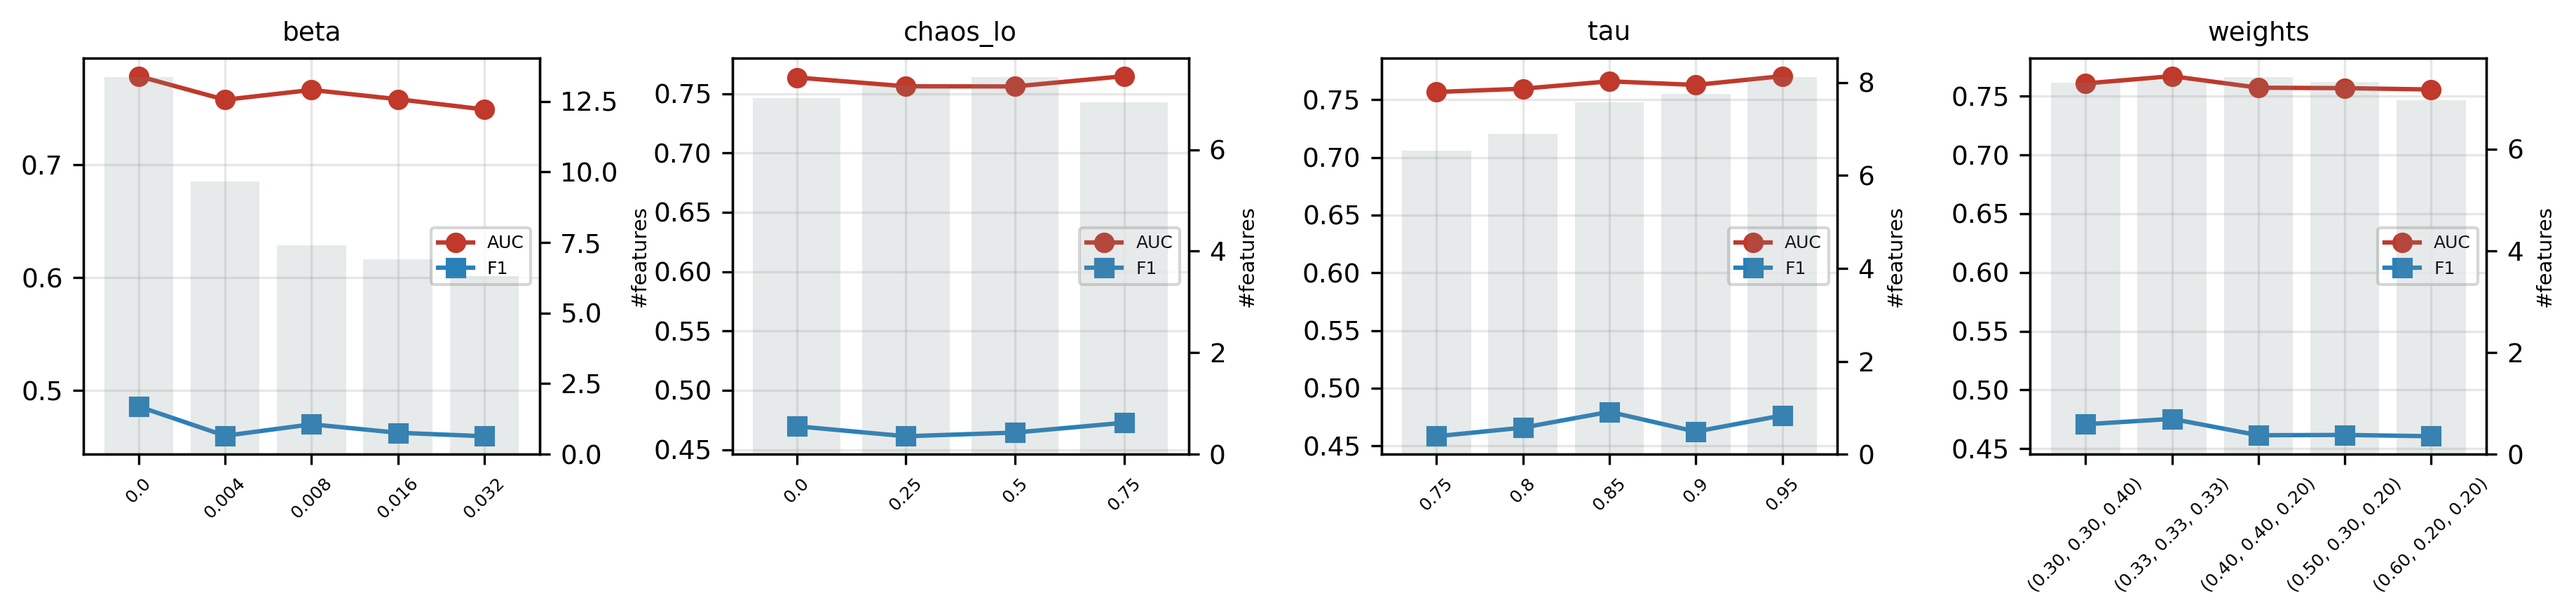
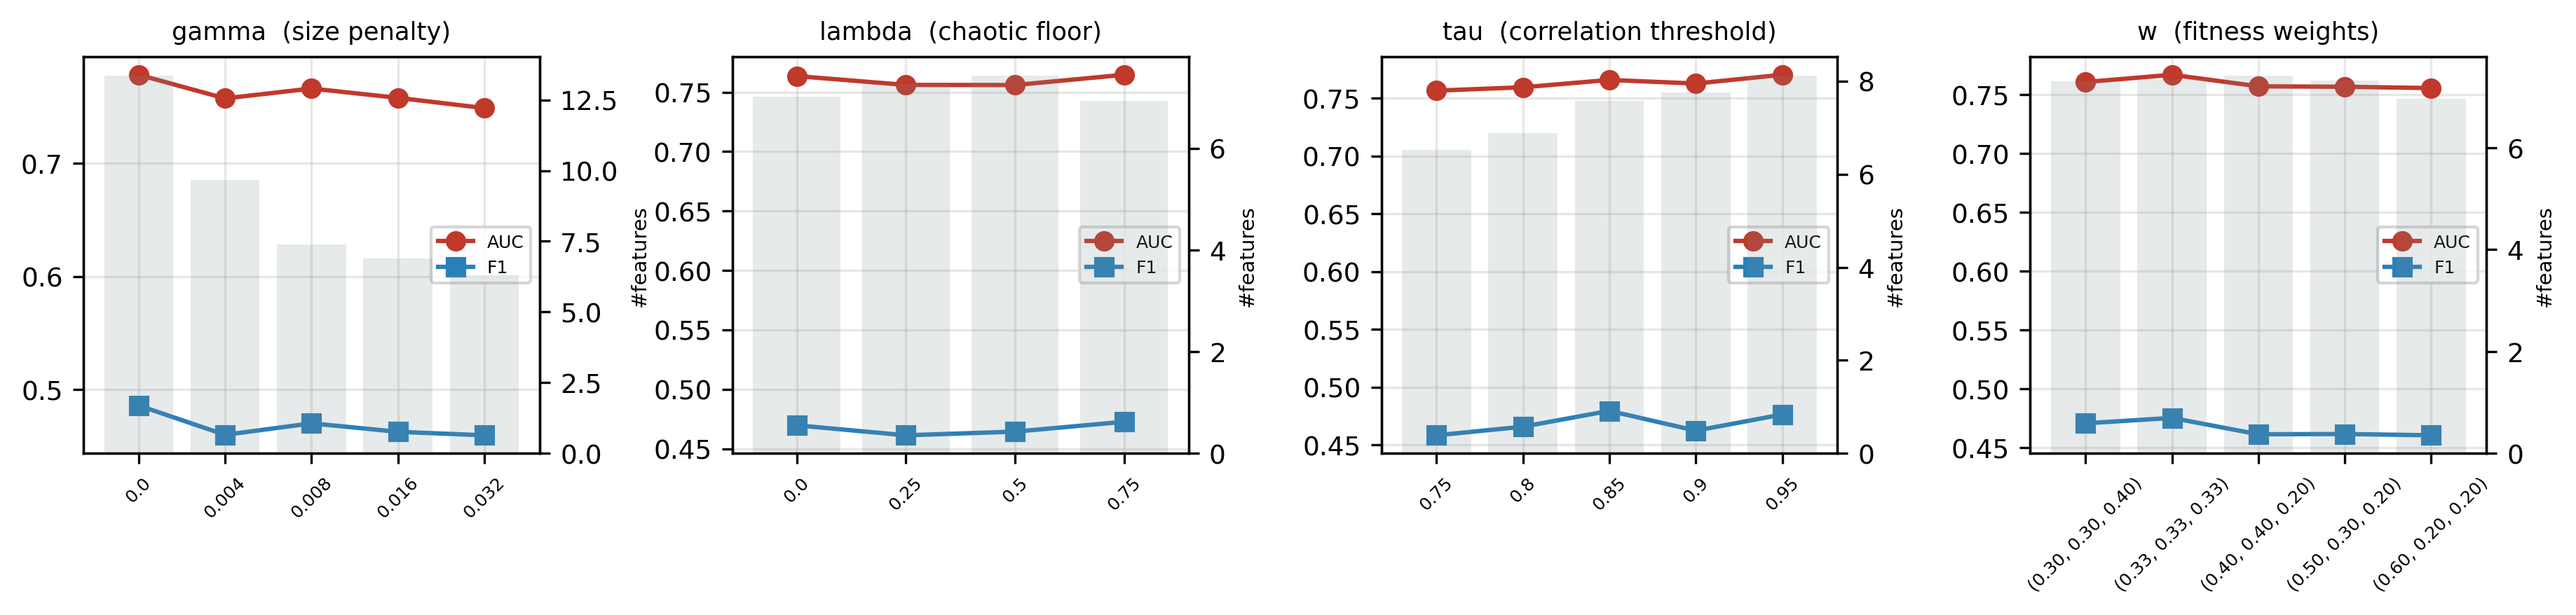
Redraw Figure 1 on an explicit grid and fix stale symbol names
Figure 1 is rebuilt around a Box class that exposes its own edge anchors, so
arrows attach to box edges instead of hand-typed coordinates. Every connection
is now either straight or a right-angled elbow; the diagonal run into Stage 1
and the unanchored dashed arc across the top are gone, the Stage 1 text no
longer overflows its box, and the held-out-fold rail routes clear of the
Stage 4 panel.

Both figures also carried the pre-rename notation: the candidate pool is P, not
C, and the size penalty is gamma, not beta (beta denotes the beta wolf). Fixed
in Figure 1 and in the sensitivity panel titles of Figure 10.

diff --git a/make_fig1.py b/make_fig1.py
@@ -1,85 +1,184 @@
-"""Figure 1: revised DF-GWO pipeline diagram."""
+"""Figure 1: the DF-GWO experimental pipeline.
+
+Laid out on an explicit grid. Every box is a `Box` that knows its own edges, and every
+arrow is anchored to those edges rather than to hand-typed coordinates, so boxes cannot
+overlap and arrows cannot start or end in mid-air. All connections are either straight
+(when two boxes share a centre line) or right-angled elbows; nothing runs diagonally
+across the figure.
+"""
 import os
+
 import matplotlib
 matplotlib.use("Agg")
 import matplotlib.pyplot as plt
-from matplotlib.patches import FancyBboxPatch, FancyArrowPatch
+from matplotlib.patches import FancyBboxPatch, FancyArrowPatch, Rectangle
 
 FIG = os.path.join(os.path.dirname(os.path.abspath(__file__)), "figures")
 os.makedirs(FIG, exist_ok=True)
 
-fig, ax = plt.subplots(figsize=(11.2, 5.0))
-ax.set_xlim(0, 114); ax.set_ylim(0, 50); ax.axis("off")
+C_DATA = "#d6eaf8"      # data and protocol
+C_PREP = "#d5f5e3"      # training-partition processing
+C_STAGE = "#fdebd0"     # DF-GWO stages
+C_TEST = "#fadbd8"      # anything that touches the held-out fold
+C_SIDE = "#ffffff"
+C_METRIC = "#eaeded"
+EC = "#37474f"
+
+fig, ax = plt.subplots(figsize=(12.6, 10.2))
+ax.set_xlim(-3, 124)
+ax.set_ylim(-33, 71)
+ax.axis("off")
 
 
-def box(x, y, w, h, text, fc, fs=8.2, bold=False, ec="#37474f"):
-    ax.add_patch(FancyBboxPatch((x, y), w, h, boxstyle="round,pad=0.6,rounding_size=1.2",
-                                fc=fc, ec=ec, lw=1.1))
-    ax.text(x + w / 2, y + h / 2, text, ha="center", va="center", fontsize=fs,
-            weight="bold" if bold else "normal", linespacing=1.45)
+class Box:
+    """A rounded box that knows where its own edges are."""
+
+    def __init__(self, cx, cy, w, h, text, fc=C_SIDE, fs=8.4, bold=False, ec=EC):
+        self.cx, self.cy, self.w, self.h = cx, cy, w, h
+        ax.add_patch(FancyBboxPatch((cx - w / 2, cy - h / 2), w, h,
+                                    boxstyle="round,pad=0.55,rounding_size=1.4",
+                                    fc=fc, ec=ec, lw=1.1, zorder=3))
+        ax.text(cx, cy, text, ha="center", va="center", fontsize=fs, zorder=4,
+                weight="bold" if bold else "normal", linespacing=1.5)
+
+    # edge anchors, with the rounded-corner padding taken into account
+    @property
+    def left(self):
+        return self.cx - self.w / 2 - 0.55
+
+    @property
+    def right(self):
+        return self.cx + self.w / 2 + 0.55
+
+    @property
+    def top(self):
+        return self.cy + self.h / 2 + 0.55
+
+    @property
+    def bottom(self):
+        return self.cy - self.h / 2 - 0.55
 
 
-def arrow(x1, y1, x2, y2, style="-|>", ls="-", col="#37474f", rad=0.0):
-    ax.add_patch(FancyArrowPatch((x1, y1), (x2, y2), arrowstyle=style, mutation_scale=11,
-                                 lw=1.2, color=col, linestyle=ls,
-                                 connectionstyle=f"arc3,rad={rad}"))
+def arrow(p, q, ls="-", col=EC, lw=1.15, head=True):
+    ax.add_patch(FancyArrowPatch(p, q, arrowstyle="-|>" if head else "-",
+                                 mutation_scale=12, lw=lw, color=col,
+                                 linestyle=ls, zorder=2, shrinkA=0, shrinkB=0))
 
 
-# --- data / fold layer
-box(1.5, 39, 20, 8.5, "Twenty projects\nPROMISE / AEEEM / ReLink\n(n = 56-1862, d = 20-61)", "#d6eaf8")
-box(24.5, 39, 19, 8.5, "Stratified 5-fold CV\n(outer folds fixed and\nshared by all methods)", "#d6eaf8")
-arrow(21.5, 43.2, 24.5, 43.2)
+def across(a, b, ls="-", col=EC):
+    """Straight horizontal arrow, a.right -> b.left (boxes share a centre line)."""
+    arrow((a.right, a.cy), (b.left, b.cy), ls=ls, col=col)
 
-box(46.5, 39, 22, 8.5, "Training partition only:\nmedian impute, drop constant,\nmin-max scale, SMOTE (k = 5)", "#d5f5e3")
-arrow(43.5, 43.2, 46.5, 43.2)
-box(92, 39, 19, 8.5, "Held-out test fold\n(untouched until the\nfinal Random Forest)", "#fdebd0")
-arrow(34, 47.5, 97, 47.5, ls=(0, (4, 3)), col="#b9770e", rad=-0.11)
 
-# --- stage 1
-box(3, 27, 26, 8.5, "STAGE 1  Dynamic feature grouping\nPearson |rho| > tau = 0.85, union-find merge;\n"
-                    "MI representative + high-MI singletons\n-> candidate pool C", "#fdebd0", bold=False)
-arrow(50, 39, 16, 35.5, rad=0.12)
+def down(a, b, ls="-", col=EC):
+    """Straight vertical arrow, a.bottom -> b.top (boxes share a centre line)."""
+    arrow((a.cx, a.bottom), (b.cx, b.top), ls=ls, col=col)
 
-# --- stage 2 / 3 loop
-box(33, 20.5, 32, 15, "", "#fadbd8", ec="#c0392b")
-ax.text(49, 34.0, "Main loop:  t = 1 ... T = 30", ha="center", fontsize=8.6, weight="bold",
-        color="#922b21")
-box(34.5, 27.5, 29, 5.6, "STAGE 2  Chaos-driven search\ncosine a(t) Eq.(6) | logistic C' Eq.(7) | Levy (t > T/2)",
-    "#ffffff", fs=7.9)
-box(34.5, 21.5, 29, 5.4, "STAGE 3  Composite fitness Eq.(8)\n0.4 F1 + 0.4 AUC + 0.2 MCC* + beta |S|/|C|\n"
-                         "on internal 20% validation slice (L1-logistic probe)", "#ffffff", fs=7.4)
-arrow(29, 30.5, 34.5, 30.5)
-arrow(49, 27.5, 49, 27.0)
 
-# --- stage 4
-box(69, 20.5, 30, 15, "", "#e8daef", ec="#6c3483")
-ax.text(84, 34.0, "STAGE 4  Population management", ha="center", fontsize=8.6, weight="bold",
-        color="#5b2c6f")
-box(70.5, 29.5, 27, 3.6, "Opposition-based initialisation (t = 0)", "#ffffff", fs=7.9)
-box(70.5, 25.4, 27, 3.6, "Adaptive restart after 5 stalled iterations", "#ffffff", fs=7.9)
-box(70.5, 21.3, 27, 3.6, "Bounded local search (2 passes, after loop)", "#ffffff", fs=7.9)
-arrow(65, 28, 69, 28)
-arrow(69, 23.5, 65, 23.5)
+def elbow(pts, ls="-", col=EC, lw=1.15):
+    """Right-angled polyline; only the final segment carries the arrowhead."""
+    for p, q in zip(pts[:-2], pts[1:-1]):
+        arrow(p, q, ls=ls, col=col, lw=lw, head=False)
+    arrow(pts[-2], pts[-1], ls=ls, col=col, lw=lw)
 
-# --- output layer
-box(33, 10.5, 32, 6.5, "Selected subset S*  (|S*| >= 3)", "#d5f5e3", bold=True)
-arrow(49, 20.5, 49, 17)
-box(3, 10.5, 26, 6.5, "Random Forest scorer\n100 trees, balanced class weights", "#d6eaf8")
-arrow(33, 13.7, 29, 13.7)
-box(69, 10.5, 30, 6.5, "Predicted defect probabilities\non the held-out test fold", "#fdebd0")
-arrow(65, 13.7, 69, 13.7)
-arrow(105, 39, 105, 13.7, style="-")
-arrow(105, 13.7, 99, 13.7)
 
-# --- evaluation layer
-box(3, 1.5, 45, 6.5, "Predictive metrics\nAccuracy | F1 | AUC | MCC | G-mean", "#eaeded")
-box(51, 1.5, 48, 6.5, "Effort-aware metrics (defect density ranking)\nRecall@20%LOC | Popt@20% | EA-AUC",
-    "#eaeded")
-arrow(16, 10.5, 16, 8)
-arrow(84, 10.5, 84, 8)
+def label(x, y, s, col="#5d6d7e", fs=7.4, rot=0):
+    ax.text(x, y, s, fontsize=fs, color=col, ha="center", va="center",
+            style="italic", zorder=5, rotation=rot,
+            bbox=dict(fc="white", ec="none", pad=1.2))
 
-ax.text(65, 49.6, "test partition of each fold", ha="center", fontsize=7.2, color="#b9770e", style="italic")
-ax.set_ylim(0, 52)
+
+# ===================================================================== protocol band
+A1 = Box(18, 63, 32, 11,
+         "Twenty projects\nPROMISE / AEEEM / ReLink\n(n = 56-1862,  d = 20-61)", C_DATA)
+A2 = Box(62, 63, 34, 11,
+         "Stratified 5-fold cross-validation\n(outer folds fixed and shared\nby every method)",
+         C_DATA)
+A3 = Box(104, 63, 26, 11,
+         "Held-out test fold\n(untouched until the\nfinal Random Forest)", C_TEST)
+
+A4 = Box(62, 46, 44, 10,
+         "Training partition only\nmedian impute  |  drop constant columns\n"
+         "min-max scale  |  SMOTE (k = 5)", C_PREP)
+
+across(A1, A2)
+across(A2, A3)
+label((A2.right + A3.left) / 2, 66.2, "test partition")
+down(A2, A4)
+label(62, 54.2, "training partition")
+
+# ===================================================================== stage 1
+S1 = Box(62, 29, 56, 12,
+         "STAGE 1   dynamic feature grouping\n"
+         "Pearson |rho| > tau = 0.85, union-find merge;  highest-MI member of each\n"
+         "group plus every high-MI singleton   ->   candidate pool P", C_STAGE)
+down(A4, S1)
+
+# ===================================================================== main loop
+LOOP_L, LOOP_R, LOOP_B, LOOP_T = 6, 70, -14, 15
+ax.add_patch(Rectangle((LOOP_L, LOOP_B), LOOP_R - LOOP_L, LOOP_T - LOOP_B,
+                       fc="#fdf2f2", ec="#c0392b", lw=1.2, linestyle=(0, (5, 3)),
+                       zorder=0))
+ax.text(LOOP_L + 2, LOOP_T - 2.4, "Main loop   t = 1 ... T = 30", fontsize=9,
+        weight="bold", color="#922b21", ha="left", va="center", zorder=5)
+
+S2 = Box(38, 6, 56, 8,
+         "STAGE 2   chaos-driven search\n"
+         "cosine a(t) Eq. (6)  |  logistic C' Eq. (7)  |  Levy flight (t > T/2)", fs=8.2)
+S3 = Box(38, -6, 56, 10,
+         "STAGE 3   composite fitness  Eq. (8)\n"
+         "0.40 F1 + 0.40 AUC + 0.20 MCC* + gamma |S| / |P|\n"
+         "on an internal 20% validation slice (L1-logistic probe)", fs=8.2)
+down(S2, S3)
+
+# Stage 1 feeds the loop: down the spine, then left into the top of Stage 2.
+elbow([(S1.cx, S1.bottom), (S1.cx, 18.5), (S2.cx, 18.5), (S2.cx, S2.top)])
+
+# ===================================================================== stage 4
+P4_L, P4_R = 75, 115
+ax.add_patch(Rectangle((P4_L, LOOP_B), P4_R - P4_L, LOOP_T - LOOP_B,
+                       fc="#f5eef8", ec="#6c3483", lw=1.2, linestyle=(0, (5, 3)),
+                       zorder=0))
+ax.text((P4_L + P4_R) / 2, LOOP_T - 2.4, "STAGE 4   population management",
+        fontsize=9, weight="bold", color="#5b2c6f", ha="center", va="center", zorder=5)
+
+G1 = Box(95, 6, 34, 4.4, "Opposition-based initialisation (t = 0)", fs=8.0)
+G2 = Box(95, 0, 34, 4.4, "Adaptive restart after 5 stalled iterations", fs=8.0)
+G3 = Box(95, -6, 34, 4.4, "Bounded local search (2 passes, after the loop)", fs=8.0)
+
+arrow((S2.right, S2.cy), (G1.left, G1.cy))
+arrow((G3.left, G3.cy), (S3.right, S3.cy))
+
+# ===================================================================== output chain
+SS = Box(38, -20.5, 40, 6, "Selected subset  S*     (|S*| >= 3)", C_PREP, bold=True)
+down(S3, SS)
+
+RF = Box(18, -35, 32, 7,
+         "Random Forest scorer\n100 trees, balanced class weights", C_DATA)
+PR = Box(84, -35, 40, 7,
+         "Predicted defect probabilities\non the held-out test fold", C_TEST)
+
+elbow([(SS.cx, SS.bottom), (SS.cx, -27.0), (RF.cx, -27.0), (RF.cx, RF.top)])
+across(RF, PR)
+
+# the held-out fold travels down the right-hand rail and meets the scorer's output
+RAIL = 119.5
+elbow([(A3.cx, A3.bottom), (A3.cx, 53.5), (RAIL, 53.5), (RAIL, PR.cy), (PR.right, PR.cy)],
+      ls=(0, (5, 3)), col="#b9770e")
+label(RAIL, 24, "held-out fold", col="#b9770e", rot=90)
+
+# ===================================================================== metrics
+M1 = Box(30, -49, 46, 7,
+         "Predictive metrics\nAccuracy  |  F1  |  AUC  |  MCC  |  G-mean", C_METRIC)
+M2 = Box(88, -49, 50, 7,
+         "Effort-aware metrics (defect-density ranking)\n"
+         "Recall@20%LOC  |  Popt@20%  |  EA-AUC", C_METRIC)
+
+elbow([(PR.cx, PR.bottom), (PR.cx, -42.5), (M1.cx, -42.5), (M1.cx, M1.top)])
+elbow([(PR.cx, PR.bottom), (PR.cx, -42.5), (M2.cx, -42.5), (M2.cx, M2.top)])
+
+ax.set_ylim(-55, 70)
 plt.tight_layout()
-plt.savefig(os.path.join(FIG, "fig1_pipeline.png"), dpi=300, bbox_inches="tight")
-print("wrote", os.path.join(FIG, "fig1_pipeline.png"))
+out = os.path.join(FIG, "fig1_pipeline.png")
+plt.savefig(out, dpi=300, bbox_inches="tight")
+print("wrote", out)

diff --git a/analyse.py b/analyse.py
@@ -302,6 +302,12 @@ def ablation():
 
 
 # ================================================================ SENSITIVITY
+FACTOR_TITLE = {"beta": "gamma  (size penalty)",
+                "chaos_lo": "lambda  (chaotic floor)",
+                "tau": "tau  (correlation threshold)",
+                "weights": "w  (fitness weights)"}
+
+
 def sensitivity():
     rows = []
     for f in glob.glob(os.path.join(RES, "sens_*.json")):
@@ -345,7 +351,8 @@ def sensitivity():
         ax.set_xticks(list(x)); ax.set_xticklabels(s["value"], rotation=45, fontsize=6)
         ax2 = ax.twinx(); ax2.bar(x, s["NFeat"], alpha=0.18, color="#7f8c8d")
         ax2.set_ylabel("#features", fontsize=7); ax2.grid(False)
-        ax.set_title(fam, fontsize=9); ax.legend(fontsize=6)
+        # the paper writes the size penalty as gamma (beta denotes the beta wolf)
+        ax.set_title(FACTOR_TITLE.get(fam, fam), fontsize=8.5); ax.legend(fontsize=6)
     plt.tight_layout(); plt.savefig(os.path.join(FIG, "fig9_sensitivity.png")); plt.close()
     return g
 
